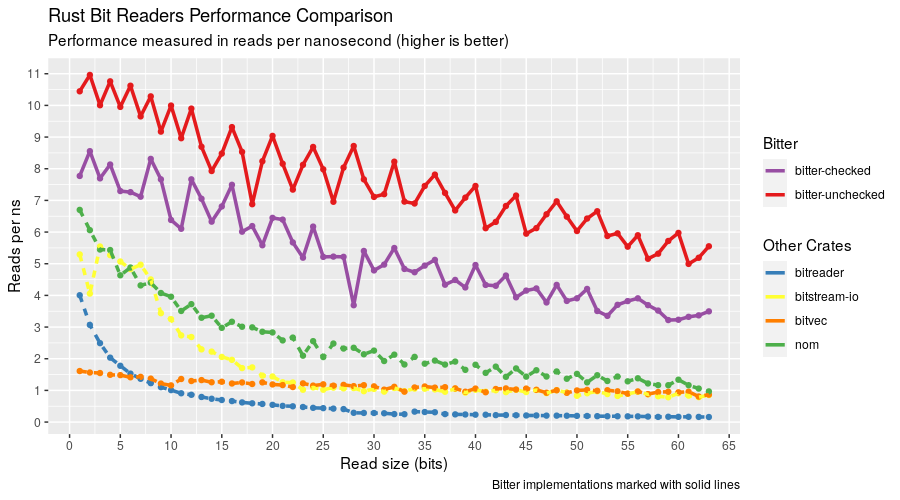
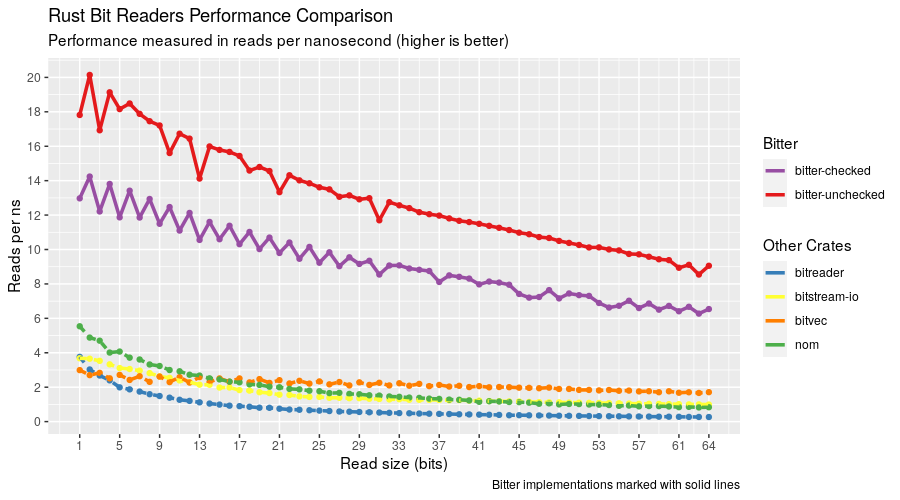
Use more intuitive scale in benchmark graph

diff --git a/README.md b/README.md
@@ -80,6 +80,14 @@ Bitter is hardly the first Rust library for handling bits.
 [bitreader](https://crates.io/crates/bitreader) are all crates that deal with bit reading.
 The reason why someone would choose bitter is speed.
 
+![bench-bit-reads.png](assets/bench-bit-reads.png)
+
+Takeaways:
+
+* Bitter unchecked APIs yield the greatest throughput (reads per second)
+* Bitter checked APIs cost less than half the throughput of bitter unchecked APIs
+* Bitter is at least 4x faster than other libraries
+
 ## Benchmarking
 
 Benchmarks are ran with the following command:
@@ -91,11 +99,3 @@ find ./compare/target -path "*bit-reading*" -wholename "*/new/raw.csv" -print0 \
 ```
 
 And can be analyzed with the R script found in the assets directory. Keep in mind, benchmarks will vary by machine
-
-![bench-bit-reads.png](assets/bench-bit-reads.png)
-
-Takeaways from the above chart:
-
-* Bitter unchecked APIs yield the greatest throughput (reads per second)
-* Bitter checked APIs cost less than half the throughput of bitter unchecked APIs
-* Bitter is 2x-6x faster than other libraries depending on the read size
